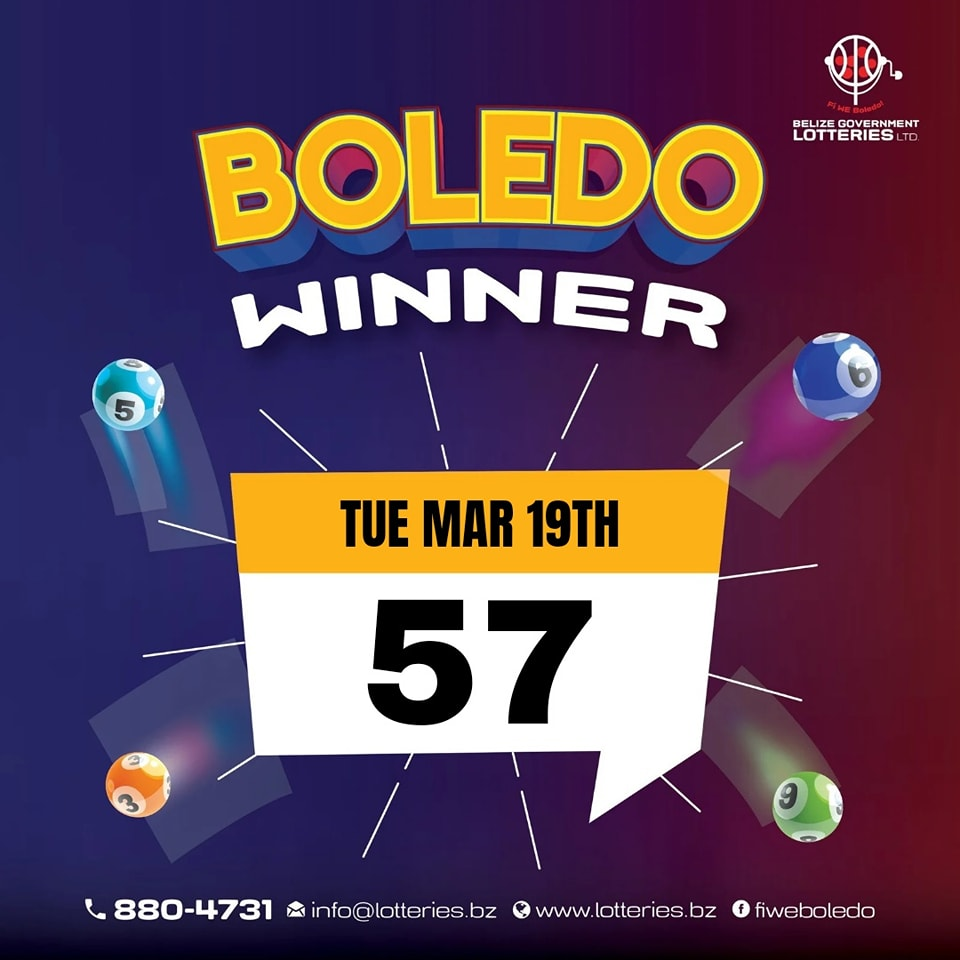
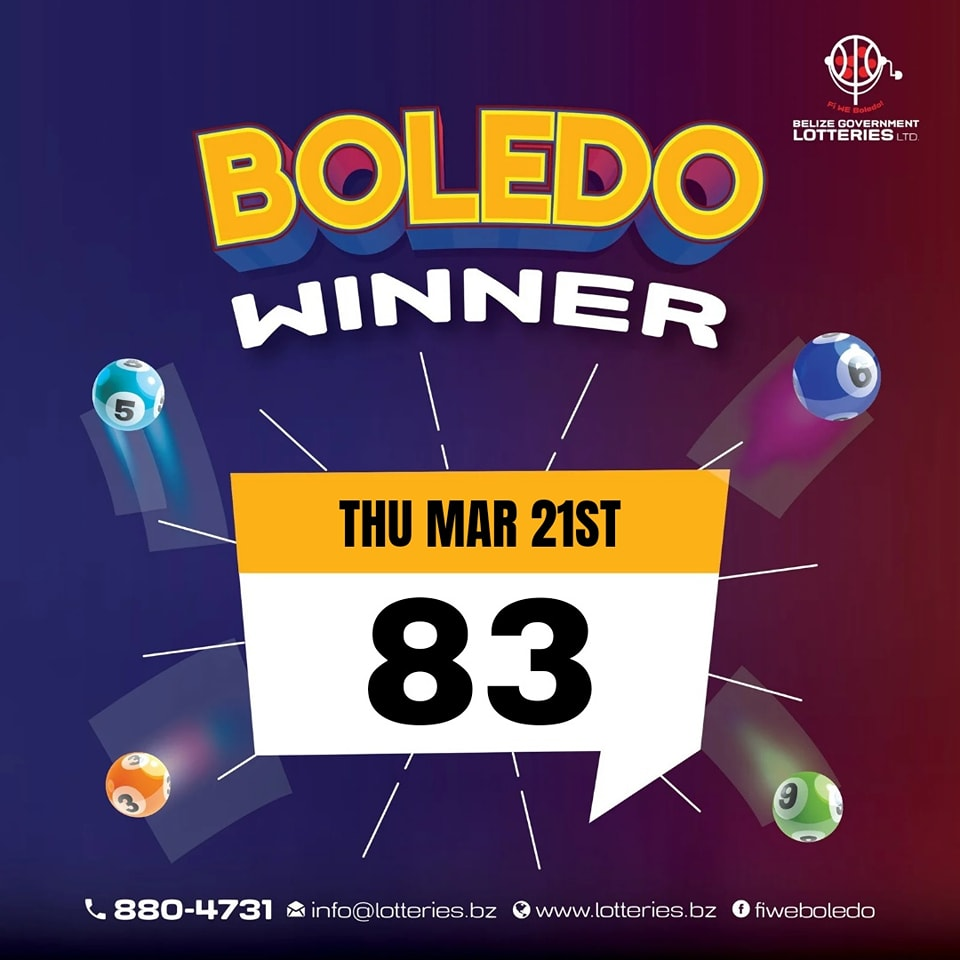
Updated Winning Number

Changed region(s): [[0.375, 0.625, 0.625, 0.7812], [0.3438, 0.5, 0.6562, 0.5938]]

diff --git a/winningNumbers.js b/winningNumbers.js
@@ -74,6 +74,7 @@ var boledoDatabase = {
   "19/03/2024": "57",
   "20/03/2024": "99",
   "21/03/2024": "83",
+  "22/03/2024": "32",
 };
 
 var ordinaryLotteryDatabase = {
@@ -93,6 +94,7 @@ var ordinaryLotteryDatabase = {
   "03/03/2024": "97",
   "10/03/2024": "02",
   "17/03/2024": "60",
+  "24/03/2024": "39",
 };
 
 var jackpotDatabase = {
@@ -112,4 +114,5 @@ var jackpotDatabase = {
   "03/03/2024": ["4097", "9917", "7688"],
   "10/03/2024": ["9702", "0569", "6322"],
   "17/03/2024": ["4760", "4100", "1669"],
+  "24/03/2024": ["3439", "2464", "2488"],
 };
